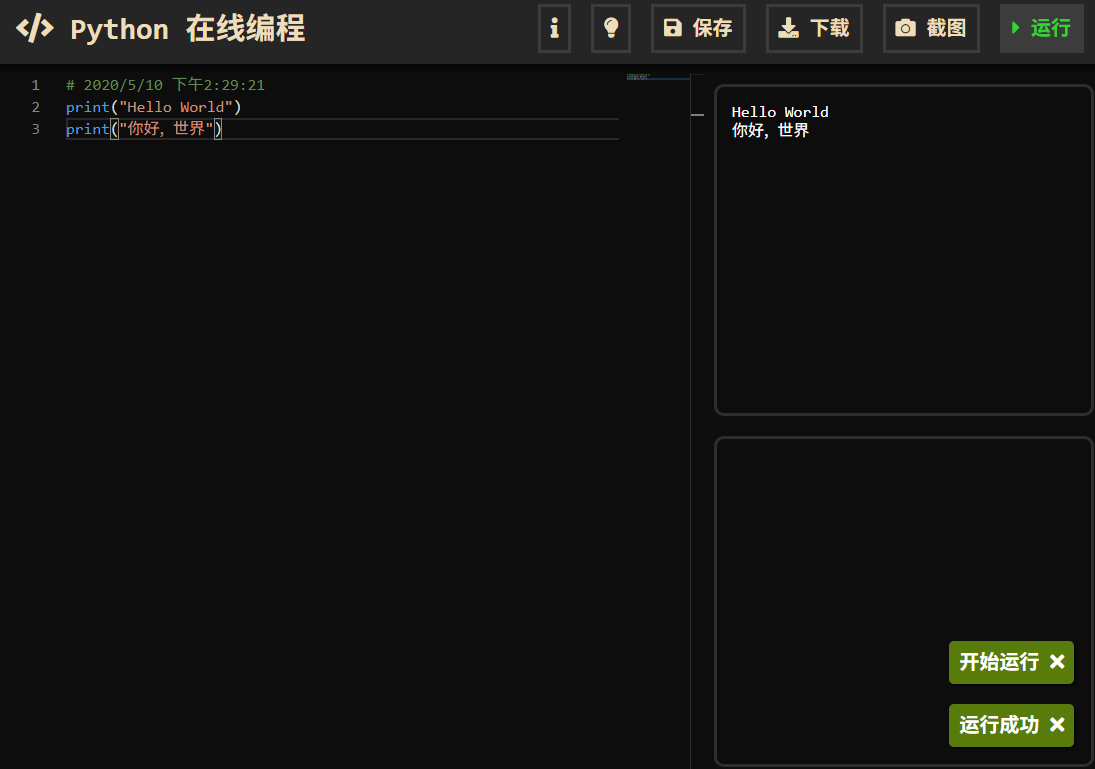
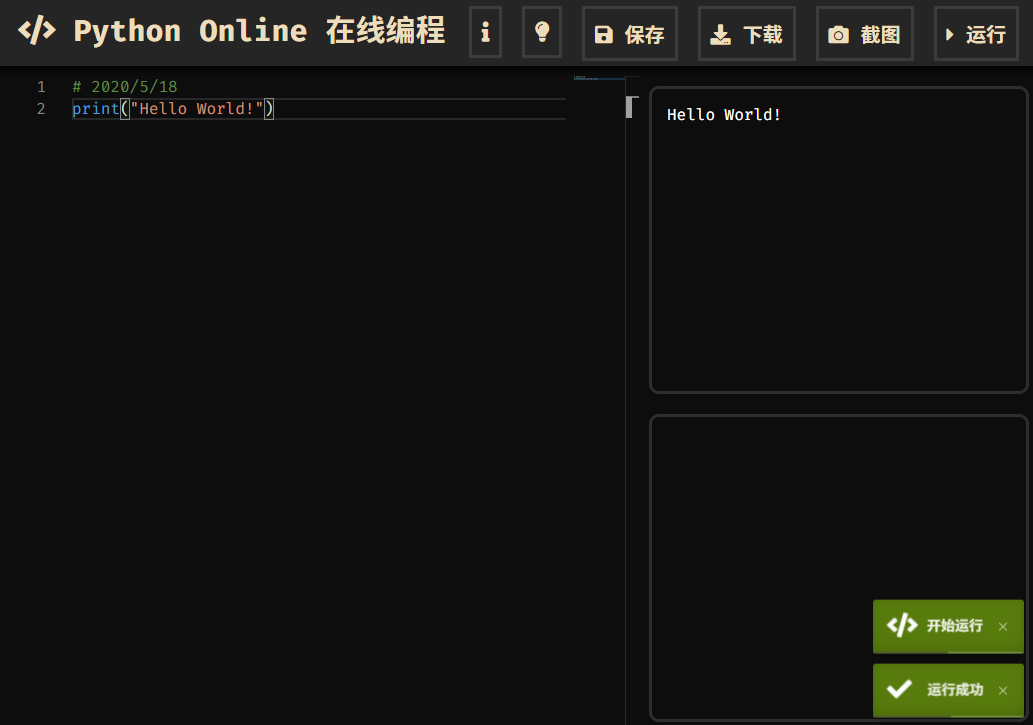
v1.0.1 过时浏览器提示 更新readme.md

Changed region(s): [[0.0, 0.0, 1.0, 1.0], [0.6196, 0.971, 0.6815, 1.0]]

diff --git a/index.html b/index.html
@@ -1,20 +1,23 @@
 <!DOCTYPE html>
+<html lang="zh-cmn-Hans">
 <head>
     <meta charset="UTF-8">
     <meta property="og:title" content="Python 在线编程">
     <meta name="theme" content="dark">
     <meta name="keywords" content="Python,在线编程">
-    <title>Python 在线编程</title>
+    <meta name="renderer" content="webkit"/>
+    <meta name="force-rendering" content="webkit"/>
+    <meta http-equiv="X-UA-Compatible" content="IE=edge,chrome=1"/>
+    <title>PyOnline 在线编程</title>
+    <script>if (/*@cc_on!@*/false || (!!window.MSInputMethodContext && !!document.documentMode)) window.location.href="https://support.dmeng.net/upgrade-your-browser.html?referrer="+encodeURIComponent(window.location.href); </script>
     <link rel="stylesheet" href="res/style.css">
     <script src="res/html2canvas.min.js"></script>
     <script src="https://cdnjs.loli.net/ajax/libs/izitoast/1.4.0/js/iziToast.min.js"></script>
 </head>
 <body>
     <div class="desc">
-        <i class="fa fa-code"></i> Python Online 在线编程
+        <p id="title"><i class="fa fa-code"></i> Python Online 在线编程</p>
     </div>
-    <div id="infoBar"></div>
-    
     <div class="ctlPanel">
         <span class="ctlbtn" onclick="runCode()"> <i class="fa fa-caret-right"></i> 运行</span>
         <span class="ctlbtn" onclick="screenShot()"> <i class="fa fa-camera"></i> 截图</span>
@@ -41,3 +44,4 @@
     <script src="https://cdnjs.loli.net/ajax/libs/monaco-editor/0.20.0/min/vs/loader.min.js"></script>
     <script src="res/script.js"></script>
 </footer>
+</html>

diff --git a/res/style.css b/res/style.css
@@ -43,6 +43,11 @@ html, body {
     background-color: #252526;
     color: #ecdebd;
     box-shadow: 0px 3px 5px 3px rgba(2, 2, 2, 0.692);
+    user-select: none;
+}
+
+#title {
+    display: inline;
 }
 
 .mainContainer {
@@ -191,7 +196,7 @@ html, body {
     top: 0;
 }
 
-/* 手机 */
+/* 竖屏 */
 @media screen and (orientation: portrait) {
     .mainContainer {
         flex-direction: column;
@@ -199,5 +204,12 @@ html, body {
     #outputContainer, #turtleCanvas {
         width: 500px;
         height: 500px;
+    }
+    
+}
+
+@media screen and (max-width: 1020px) {
+    #title {
+        display: none;
     }
 }

diff --git a/readme.md b/readme.md
@@ -3,16 +3,18 @@
 ![screenshot.png](screenshot.png)
 
 ## 功能
+
 - 适用于 Python 教学
 - 编辑 Python 代码，并输出结果（支持 Turtle 海龟图）
 - 支持清晰地截图代码及结果
-- 支持保存代码（借助cookie，因此有长度限制）和下载代码（``.py``文件需选择保留）
-- 静态页面，可以缓存线下使用
+- 支持保存代码和下载代码（``.py``文件需选择保留）
+- 静态页面，本地运行
 
 ## 说明
+
 - Python 的解释器是依靠 [Skulpt](https://github.com/skulpt/skulpt) 使用 Javascript 模拟的，有可能和 CPython 有区别。
 - 界面写的比较丑，一是不会设计，二是不熟悉css = =
-- 体验网址 [pyol.cf](http://pyol.cf) (特意注册了个短域名= =)
+- 体验网址 [https://pyol.cf](https://pyol.cf) (特意注册了个短域名= =)
 
 ## 感谢
 
@@ -21,27 +23,34 @@
 - [Monaco Editor](https://microsoft.github.io/monaco-editor/)
 - [iziToast](https://www.izitoast.cn/)
 
-## (F)AQ（因为没人问）
-**Q:** 你这个 xx 按钮/xx 提示框 怎么被 盖住了/错位了？
+## Q & A
 
-**A:** 技术不精，很有可能我不会改= =  建议在正常大小的窗口（比如全屏）下使用。不过有这方面问题欢迎提交 Issue 和 PR
-
-**Q:** 我的代码怎么保存的？怎么不用登录？
-
-**A:** 使用 LocalStorage 保存，请不要开启隐私模式，代码只会保存在同一个浏览器下。
-
-**Q:** 我按了按钮没反应？
-
-**A:** 请使用**极为先进**的主流浏览器的最新版，比如 [新版 Edge 浏览器](https://www.microsoft.com/zh-cn/edge) 或者 [Chrome 浏览器](https://www.google.cn/intl/zh-CN/chrome/)，还有 [Firefox 浏览器](http://www.firefox.com.cn/)。
-
+***
 **Q:** 加载太慢了！
 
-**A:** 网络环境不好 ¯\\_(ツ)_/¯
+**A:** 网络环境不好 ¯\\_(ツ)_/¯ 可以试试刷新几次。
+***
+**Q:** 我按了按钮没反应？
 
+**A:** [是时候升级你的浏览器了！](https://support.dmeng.net/upgrade-your-browser.html)
+***
+**Q:** 字体太小了怎么办？
+
+**A:** 可以使用 <kbd>Ctrl</kbd> + <kbd>鼠标滚轮</kbd> 调整大小。
+***
+**Q:** 你这个 xx 按钮/xx 提示框 怎么被 盖住了/错位了？
+
+**A:** 技术不精，很有可能我不会改= =  建议在正常大小的窗口（比如全屏）下使用。不过有这方面问题欢迎提交 Issue 和 PR。
+***
 **Q:** 我的代码和截图保存到哪里了？
 
 **A:** 你浏览器默认的下载文件夹。
+***
+**Q:** 我的代码怎么保存的？怎么不用登录？
 
+**A:** 使用 ``LocalStorage`` 保存，请不要开启隐私模式，代码只会保存在同一个浏览器下。
+
+***
 **Q:** 这玩意怎么写的？
 
-**A:** 把一大堆开源项目缝起来的。
+**A:** 把几个开源项目缝起来的。
